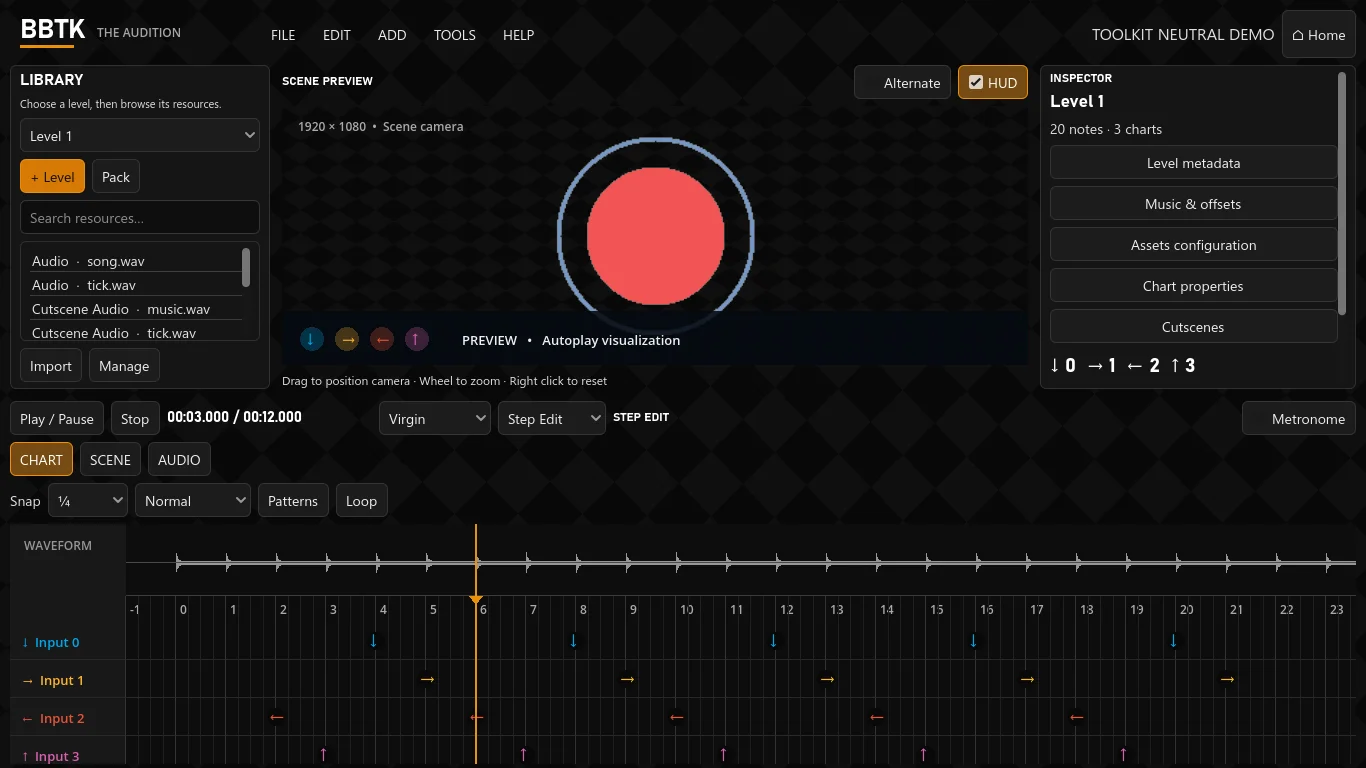
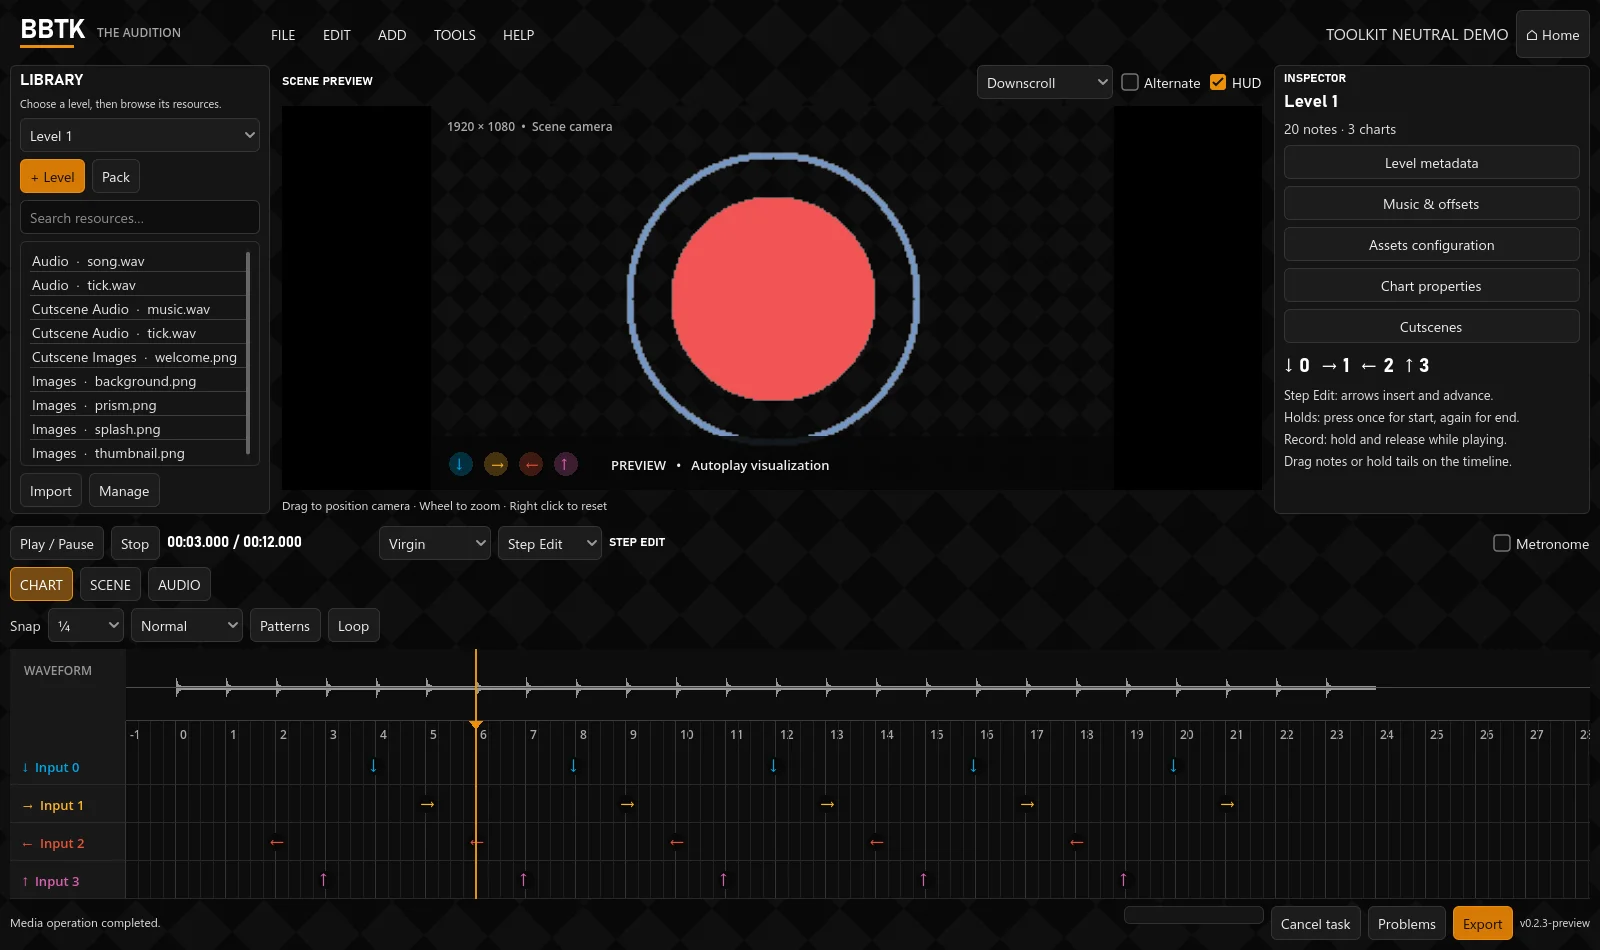
Update 0.2.3 preview, playtest guide and release checklist

diff --git a/guide/index.html b/guide/index.html
@@ -3,10 +3,10 @@
 <h2 id="start">Start</h2>
 <p>Run BBTK-TheAudition.exe with its PCK and bin folder beside it. Create a project, open an existing project.bbtk, or import a mod pack from the welcome screen. Tools opens independent resource tools. Guide opens the online documentation; Help → Offline guide opens the local copy. Home returns to the menu without closing your project. Resume Project appears only when a valid project is loaded.</p>
 <p>Three bundled menu tracks start in a shuffled order and continue from one track to the next. Settings → Audio lets you add MP3, OGG or WAV files, remove added tracks, skip to the next track, mute playback and change volume. Analysis happens locally and is cached: each song has a detected beat map, tempo segments and an estimated introduction transition. Tempo detection is an estimate; sync varies with recording quality and rhythmic ambiguity. The intro adapts to each song, with quick entrances and a reveal within two bars. Menu pulses use quarter notes grouped in 4/4; alternating strong and weak accents do not automatically reduce the pulse to half-time. Space, Enter, Escape or Skip intro opens the menu at its transition point.</p>
-<p>The mascot uses a continuous skinning mesh with head, torso, arm, leg and tail bones. Shared joints keep the illustration intact throughout movement. Its groove, the title and all menu buttons follow the selected song&#x27;s beat map. The black checkerboard drifts diagonally with a subtle wave. Settings → Appearance controls the introduction and Reduce Motion. Reduced motion keeps the background static and disables puppet motion, title/button pulses and flashes. The footer contains Settings, Support, Report a Bug and Quit; the version is at bottom right. Menu music fades when entering the editor and resumes on Home. It is never copied into an exported mod pack.</p>
+<p>The mascot uses a continuous skinning mesh with head, torso, arm, leg and tail bones. Shared joints keep the illustration intact throughout movement. Its groove, the title and all menu buttons follow the selected song&#x27;s beat map. The black checkerboard drifts diagonally with a subtle wave. Settings → Appearance controls the introduction, menu-only chromatic title fringes and Reduce Motion. The mascot&#x27;s head also pulls gently sideways on each detected beat. Reduced motion keeps the background static and disables puppet motion, title/button pulses and flashes. The footer contains Settings, Support, Report a Bug and Quit; the version is at bottom right. Menu music fades when entering the editor and resumes on Home. It is never copied into an exported mod pack.</p>
 <p>File → New project creates a pack and a first level with Virgin, Normal and Expert charts. File → Import pack asks for the folder containing act.cfg, then a parent directory for the editable copy. Each project contains project.bbtk, pack/, .cache/, .autosave/ and optional .assets/ archives for reversible images.</p>
 <h2 id="main-workspace">Main workspace</h2>
-<p>The left dock contains the level selector and resource library. Search resources, import media, or drag a resource onto the timeline. The center shows the scene. The right dock edits selected notes, events or resource properties. Resize the three dock dividers to suit your screen.</p>
+<p>The left dock contains the level selector and resource library. Search resources, import media, or drag a resource onto the timeline. The center shows the scene. The right dock edits selected notes, events or resource properties. Resize the three dock dividers to suit your screen. The scene preview stays centered at 16:9; extra dock space is filled with black bars. Resizing never stretches the scene, HUD or imported video.</p>
 <p>The charcoal theme uses orange actions, clear headings and contextual tooltips. Tools → Pack / Levels shows cover cards; double-click a card to open its level. Fonts come from Windows and are not bundled game assets. The default preview uses an animated black/charcoal checkerboard. Imported background artwork is displayed from the mod&#x27;s own resource.</p>
 <p>The bottom transport chooses a difficulty and editing mode. Chart, Scene and Audio switch the timeline tracks. Ctrl+wheel zooms around the pointer; wheel pans time; middle drag pans; Alt+wheel scrolls scene/audio tracks. Click the waveform or beat ruler to seek. The orange cursor uses chart seconds.</p>
 <h2 id="music-and-timing">Music and timing</h2>
@@ -39,7 +39,10 @@
 <p>Required cover filenames live in level/images: thumbnail.png and splash.png. Import them through the library. Removing a level retains its media for undo.</p>
 <p>Resource Manage displays every use of the selected resource. Rename or Replace updates those exact references. Remove from catalog requires zero uses and keeps the file available to history. Excluded resources are omitted from exports.</p>
 <h2 id="playtest">Playtest</h2>
-<p>Select Playtest or press Ctrl+T for manual input. Autoplay or Ctrl+P runs the chart. Incoming notes, timing feedback, score and combo appear in the preview. Stop opens the timing report. This profile is experimental; the Compatibility dialog and known-limitations document describe validation still required against the game. Use Install for test and the real game for final acceptance.</p>
+<p>Select Playtest or press Ctrl+T for manual input. Autoplay or Ctrl+P runs the chart. Both open a separate window using the current cursor position. Downscroll sends notes down four columns ordered Left, Up, Down, Right. Side Scroll sends every direction along one horizontal line from the left to a central receptor.</p>
+<p>Settings → Playtest selects the startup default and whether to begin in full screen. Downscroll is the first-run default. The selector above the editor preview, or inside the playtest window, changes the current layout without changing timestamps, score or the mod. Arrow key mappings remain unchanged.</p>
+<p>Space or Esc pauses/resumes; F11 toggles full screen. Restart returns to zero and resets results. Focus loss pauses the test. Back to editor closes the test and returns to editing at the current position. Report ends the test and opens the timing report; reaching the end also opens that report. Timing feedback, health, progress, score and combo appear in the playtest HUD.</p>
+<p>This profile is experimental; the Compatibility dialog and known-limitations document describe validation still required against the game. Use Install for test and the real game for final acceptance.</p>
 <h2 id="save-recovery-and-export">Save, recovery and export</h2>
 <p>Ctrl+S saves the canonical project then mirrors its native pack files. Undo/redo covers document commands and imported/renamed/excluded resource state. Recovery snapshots are written separately every 10 seconds while changes remain pending. Opening a project offers a newer recovery snapshot; File → Recover autosave also restores it. A cancelled conversion does not insert an incomplete asset.</p>
 <p>Problems lists missing resources, invalid notes/holds, duplicate IDs/indices, negative timestamps, invalid grids/BPM and events beyond the music duration. Double click to navigate; Replace selected missing resource repairs a missing file. Warnings preserve your data. Export errors must be resolved first.</p>
@@ -65,4 +68,5 @@
 <tr><td>Save pattern</td><td>Alt+P</td></tr>
 <tr><td>Add Camera / Shutter / Flag</td><td>Shift+C / Shift+S / Shift+F</td></tr>
 </tbody></table></div>
-<p>Timeline: wheel pans, Ctrl+wheel zooms, Alt+wheel scrolls event rows, middle drag pans, Ctrl+click extends selection. Drag a hold tail to resize it. Scene preview: left drag positions camera, wheel zooms, right click resets.</p></article></div></main><footer><span>BBTK The Audition <small>v0.2.2-preview · Windows x64</small></span><div><a href="https://ko-fi.com/justypixels">Support on Ko-fi</a><a href="https://github.com/JustyPixels/BBTK-TheAudition/issues">Report a bug</a></div></footer></body></html>
+<p>Timeline: wheel pans, Ctrl+wheel zooms, Alt+wheel scrolls event rows, middle drag pans, Ctrl+click extends selection. Drag a hold tail to resize it. Scene preview: left drag positions camera, wheel zooms, right click resets.</p>
+<p>Separate playtest window: arrow keys use the configured note bindings; Space / Esc pauses or resumes; F11 toggles full screen. The window&#x27;s layout selector changes Downscroll / Side Scroll without changing timing or score.</p></article></div></main><footer><span>BBTK The Audition <small>v0.2.3-preview · Windows x64</small></span><div><a href="https://ko-fi.com/justypixels">Support on Ko-fi</a><a href="https://github.com/JustyPixels/BBTK-TheAudition/issues">Report a bug</a></div></footer></body></html>

diff --git a/index.html b/index.html
@@ -2,4 +2,4 @@
 <section class="overview"><p class="eyebrow">MADE FOR THE WHOLE LEVEL</p><div class="feature-grid"><article><span>01 / CHART</span><h2>Give every beat a place.</h2><p>Four input lanes, holds, recording, snap divisions and reusable patterns. Edit with the keyboard or directly on the timeline.</p></article><article><span>02 / SCENE</span><h2>Put the motion in time.</h2><p>Animation loops, camera changes, backgrounds and video alongside your chart. Seek through a scene without losing your place.</p></article><article><span>03 / RESOURCES</span><h2>Make the pieces yourself.</h2><p>Build spritesheets, convert media, find a tempo and write cutscenes. Resource tools also work without opening a project.</p></article></div></section>
 <section id="preview" class="workspace"><div class="section-heading"><div><p class="eyebrow">THE WORKSPACE</p><h2>Everything has its place.</h2></div><p>Resources on the left, a scene in the center,<br>properties on the right, rhythm below.</p></div><figure><img loading="lazy" src="assets/editor.webp" width="1600" height="950" alt="Neutral level open in the BBTK editor, showing resource library, preview, inspector and chart timeline"><figcaption>Neutral preview resources. Your imported packs remain local.</figcaption></figure><div class="detail-row"><div><h3>Native files, editable copies.</h3><p>Imports preserve the original pack. Unknown fields and native Godot values stay intact.</p></div><div><h3>A way back.</h3><p>Undo, recovery snapshots and separate project copies let you revise your work.</p></div><div><h3>Check before export.</h3><p>Problems helps locate missing files and invalid data. Export a folder or ZIP for testing in the game.</p></div></div></section>
 <section id="download" class="download"><div><p class="eyebrow">GET THE TOOLKIT</p><h2>Download — Coming soon</h2><p>The Windows portable build is being checked before public release.<br>The guide and issue tracker are available now.</p></div><a class="primary" href="guide/">Explore the guide ↗</a></section>
-<section class="faq"><p class="eyebrow">BEFORE YOU START</p><h2>A few useful answers.</h2><details><summary>Does the toolkit need an internet connection?</summary><p>Editing, resource tools and local exports work offline. The website, support and issue tracker need a connection. A local guide accompanies the portable build.</p></details><details><summary>Is the built-in playtest identical to the game?</summary><p>It is experimental. The initial compatibility profile targets Steam build 25730471; use the actual game for final acceptance.</p></details><details><summary>Are the game's levels included?</summary><p>No. Game packs, their artwork and audio are local test references and are not distributed with the toolkit.</p></details><details><summary>Where do I report a problem?</summary><p><a href="https://github.com/JustyPixels/BBTK-TheAudition/issues/new/choose">Open an issue</a> with your version, reproduction steps and expected result. Avoid uploading private or copyrighted media.</p></details></section></main><footer><span>BBTK The Audition <small>v0.2.2-preview · Windows x64</small></span><div><a href="https://ko-fi.com/justypixels">Support on Ko-fi</a><a href="https://github.com/JustyPixels/BBTK-TheAudition/issues">Report a bug</a></div></footer></body></html>
+<section class="faq"><p class="eyebrow">BEFORE YOU START</p><h2>A few useful answers.</h2><details><summary>Does the toolkit need an internet connection?</summary><p>Editing, resource tools and local exports work offline. The website, support and issue tracker need a connection. A local guide accompanies the portable build.</p></details><details><summary>Is the built-in playtest identical to the game?</summary><p>It is experimental. The initial compatibility profile targets Steam build 25730471; use the actual game for final acceptance.</p></details><details><summary>Are the game's levels included?</summary><p>No. Game packs, their artwork and audio are local test references and are not distributed with the toolkit.</p></details><details><summary>Where do I report a problem?</summary><p><a href="https://github.com/JustyPixels/BBTK-TheAudition/issues/new/choose">Open an issue</a> with your version, reproduction steps and expected result. Avoid uploading private or copyrighted media.</p></details></section></main><footer><span>BBTK The Audition <small>v0.2.3-preview · Windows x64</small></span><div><a href="https://ko-fi.com/justypixels">Support on Ko-fi</a><a href="https://github.com/JustyPixels/BBTK-TheAudition/issues">Report a bug</a></div></footer></body></html>

diff --git a/ROAD_TO_1_0.md b/ROAD_TO_1_0.md
@@ -1,0 +1,40 @@
+# Road to 1.0
+
+0.2.3-preview remains a preview. A polished interface does not replace validation
+of exported mods and the game compatibility profile.
+
+## Release gates
+
+1. **Verify a complete mod in Beat Banger build 25730471.** Create a two-level
+   pack with three difficulties, original spritesheets, scene/audio events and
+   pre/post cutscenes. Export, install and play every part in the real game.
+   Reimport the result without losing unknown fields or native value types.
+2. **Validate gameplay parity.** Compare both scroll layouts and deterministic
+   test charts with the game: exact judgment boundaries, simultaneous notes,
+   all seven modifiers, early/late hold releases, miss forgiveness, health,
+   combo, score and final grades. Record differences before changing the profile.
+3. **Finish preview fidelity.** Validate animation variants, background modes,
+   pulse, shutter artwork, camera and all cutscene transitions. Implement the
+   preserved transitions beyond fade. Check video/audio sync over complete long
+   levels, after seeking and during their endings.
+4. **Make long operations reliable.** Add incremental progress and cancellation
+   for pack import/export. Confirm cancellation leaves complete old outputs
+   intact. Exercise disk-full failures, locked files and termination at several
+   save/autosave stages; verify recovery on restart.
+5. **Accept the Windows release.** Test real 1366×768 and 1920×1080 desktops at
+   100%, 125% and 150% scaling, keyboard focus, every tool and multi-window/full
+   screen operation. Profile cold image/video transitions on modest hardware.
+   Package with official matching Godot Windows export templates and verify the
+   portable build on a clean machine without a Godot installation.
+
+## Useful improvements before release
+
+- Give uncertain menu beat detection a user-controlled BPM/phase override while
+  retaining automatic analysis as the default.
+- Add clearer contextual help for native event fields and error locations.
+- Offer an editable export checklist tied to actual project diagnostics.
+
+These improvements follow the core release gates; they do not expand 1.0 into
+MIDI, automatic chart generation or physical device connectivity. Keep the
+project format compatible and game references local. Publish the application
+only after final release authorization.
